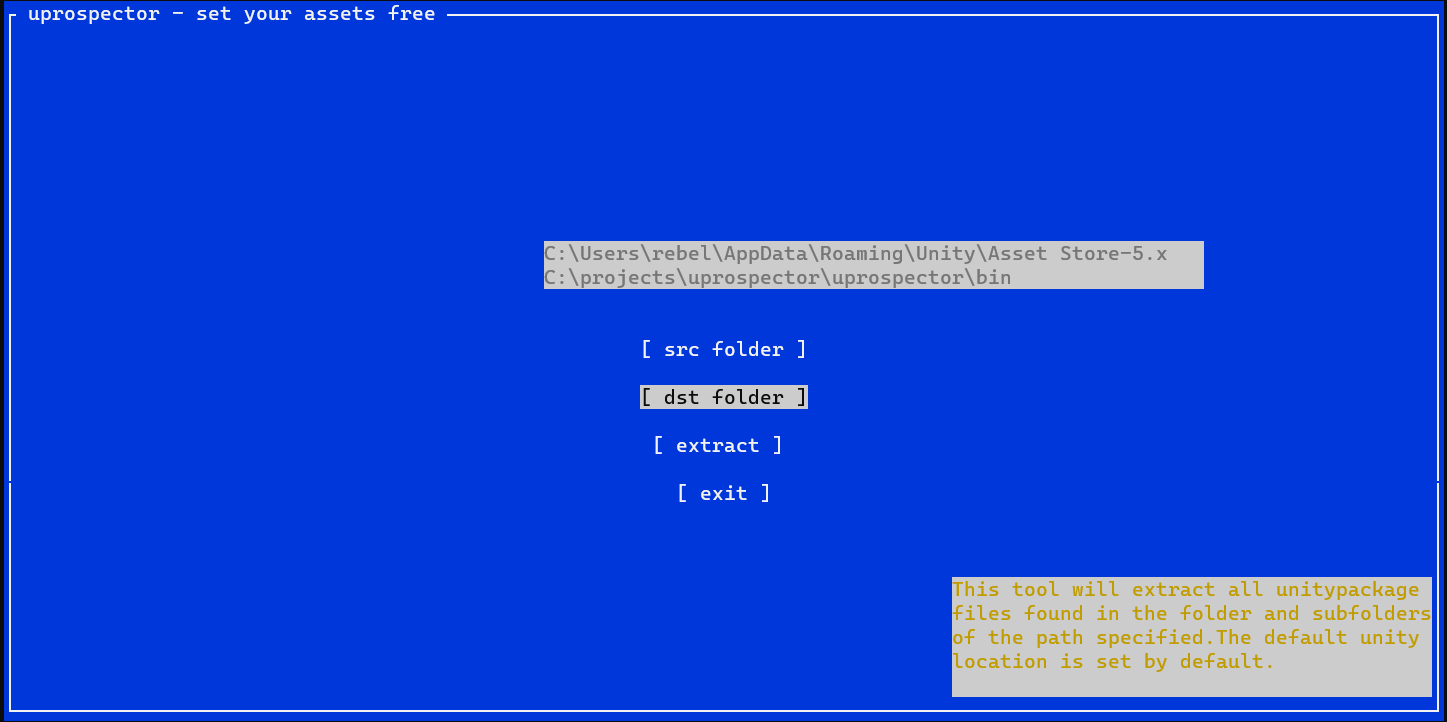
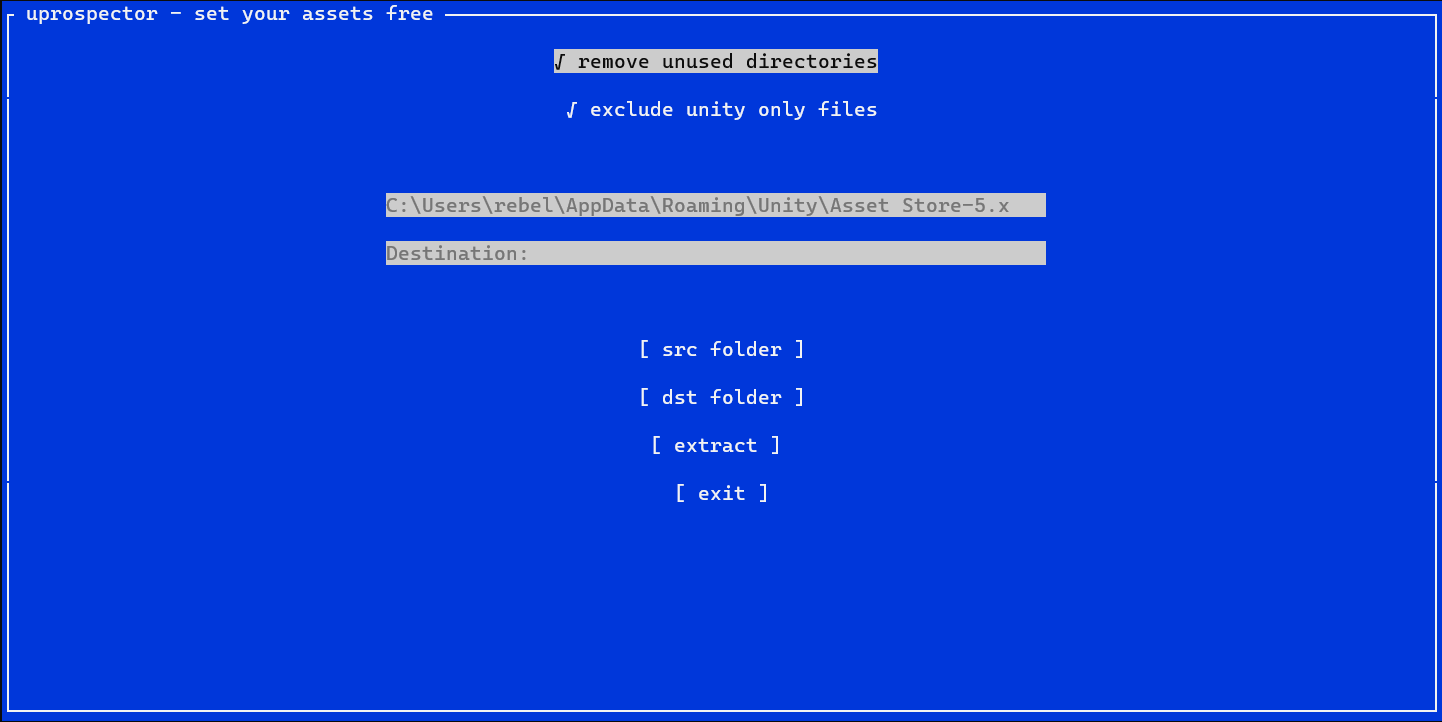
added options to removed unused directories and unity only files

diff --git a/uprospector_window.Designer.cs b/uprospector_window.Designer.cs
@@ -17,6 +17,10 @@ namespace uprospector {
         
         private Terminal.Gui.ColorScheme tgDefault;
         
+        private Terminal.Gui.CheckBox remove_unused_directories;
+        
+        private Terminal.Gui.CheckBox exclude_unity_only;
+        
         private Terminal.Gui.TextField source_path;
         
         private Terminal.Gui.TextField destination_path;
@@ -31,10 +35,7 @@ namespace uprospector {
         
         private Terminal.Gui.Button exit_btn;
         
-        private Terminal.Gui.TextView instructions_text;
-        
         private void InitializeComponent() {
-            this.instructions_text = new Terminal.Gui.TextView();
             this.exit_btn = new Terminal.Gui.Button();
             this.extract_btn = new Terminal.Gui.Button();
             this.dst_button = new Terminal.Gui.Button();
@@ -42,6 +43,8 @@ namespace uprospector {
             this.progress_bar = new Terminal.Gui.ProgressBar();
             this.destination_path = new Terminal.Gui.TextField();
             this.source_path = new Terminal.Gui.TextField();
+            this.exclude_unity_only = new Terminal.Gui.CheckBox();
+            this.remove_unused_directories = new Terminal.Gui.CheckBox();
             this.tgDefault = new Terminal.Gui.ColorScheme();
             this.tgDefault.Normal = new Terminal.Gui.Attribute(Terminal.Gui.Color.White, Terminal.Gui.Color.Blue);
             this.tgDefault.HotNormal = new Terminal.Gui.Attribute(Terminal.Gui.Color.BrightCyan, Terminal.Gui.Color.Blue);
@@ -61,10 +64,30 @@ namespace uprospector {
             this.Border.DrawMarginFrame = true;
             this.TextAlignment = Terminal.Gui.TextAlignment.Left;
             this.Title = "uprospector - set your assets free";
+            this.remove_unused_directories.Width = 6;
+            this.remove_unused_directories.Height = 1;
+            this.remove_unused_directories.X = Pos.Center();
+            this.remove_unused_directories.Y = 1;
+            this.remove_unused_directories.Visible = true;
+            this.remove_unused_directories.Data = "remove_unused_directories";
+            this.remove_unused_directories.Text = "remove unused directories";
+            this.remove_unused_directories.TextAlignment = Terminal.Gui.TextAlignment.Left;
+            this.remove_unused_directories.Checked = false;
+            this.Add(this.remove_unused_directories);
+            this.exclude_unity_only.Width = 6;
+            this.exclude_unity_only.Height = 1;
+            this.exclude_unity_only.X = Pos.Center();
+            this.exclude_unity_only.Y = Pos.Bottom(remove_unused_directories) + 1;
+            this.exclude_unity_only.Visible = true;
+            this.exclude_unity_only.Data = "exclude_unity_only";
+            this.exclude_unity_only.Text = "exclude unity only files";
+            this.exclude_unity_only.TextAlignment = Terminal.Gui.TextAlignment.Left;
+            this.exclude_unity_only.Checked = false;
+            this.Add(this.exclude_unity_only);
             this.source_path.Width = 55;
             this.source_path.Height = 1;
-            this.source_path.X = 44;
-            this.source_path.Y = 9;
+            this.source_path.X = Pos.Center();
+            this.source_path.Y = Pos.Bottom(exclude_unity_only) + 3;
             this.source_path.Visible = true;
             this.source_path.Secret = false;
             this.source_path.Data = "source_path";
@@ -73,8 +96,8 @@ namespace uprospector {
             this.Add(this.source_path);
             this.destination_path.Width = 55;
             this.destination_path.Height = 1;
-            this.destination_path.X = 44;
-            this.destination_path.Y = 10;
+            this.destination_path.X = Pos.Center();
+            this.destination_path.Y = Pos.Bottom(source_path) + 1;
             this.destination_path.Visible = true;
             this.destination_path.Secret = false;
             this.destination_path.Data = "destination_path";
@@ -135,20 +158,6 @@ namespace uprospector {
             this.exit_btn.TextAlignment = Terminal.Gui.TextAlignment.Centered;
             this.exit_btn.IsDefault = false;
             this.Add(this.exit_btn);
-            this.instructions_text.Width = 40;
-            this.instructions_text.Height = 5;
-            this.instructions_text.X = 78;
-            this.instructions_text.Y = 23;
-            this.instructions_text.Visible = true;
-            this.instructions_text.ColorScheme = this.tgDefault;
-            this.instructions_text.AllowsTab = true;
-            this.instructions_text.AllowsReturn = true;
-            this.instructions_text.WordWrap = false;
-            this.instructions_text.Data = "instructions_text";
-            this.instructions_text.Text = "This tool will extract all unitypackage\r\nfiles found in the folder and subfolders" +
-                "\r\nof the path specified.The default unity\r\nlocation is set by default.";
-            this.instructions_text.TextAlignment = Terminal.Gui.TextAlignment.Left;
-            this.Add(this.instructions_text);
         }
     }
 }

diff --git a/unitypackagetools.cs b/unitypackagetools.cs
@@ -4,11 +4,29 @@ using System.Text;
 
 namespace uprospector
 {
-    public class unity_package_tools
+    public static class unity_package_tools
     {
+        public static bool exclude_unity_files = false;
+        public static bool remove_unused_directories = false;
+        public static event Action<string>? package_extracted = null;
+        public static event Action<int>? extraction_complete = null;
+
         private static readonly object @lock = new object();
         private static readonly string log_file_path = "uprospector.log";
-
+        private static readonly List<string> excluded_extensions = new List<string>()
+        {
+            ".unity", ".anim", ".controller", ".prefab", ".asset", ".mat"
+        };
+        
+        static bool is_excluded(string file_path)
+        {
+            if(!exclude_unity_files)
+                return false;
+            
+            var extension = Path.GetExtension(file_path);
+            return excluded_extensions.Contains(extension);
+        }
+        
         public static void log_message(string message)
         {
             lock (@lock)
@@ -62,7 +80,7 @@ namespace uprospector
             stream.Close();
         }
         
-        private static string extract_file(string output_directory, string folder)
+        private static void extract_file(string output_directory, string folder)
         {
             byte[]? file_data = null;
             string file_path = "";
@@ -92,6 +110,11 @@ namespace uprospector
                 log_message($"File path missing in {folder}");
             }
 
+            if (is_excluded(file_path))
+            {
+                return;
+            }
+            
             file_path = Path.Combine(output_directory, file_path);
             
             var asset_folder = Path.GetDirectoryName(file_path);
@@ -137,13 +160,8 @@ namespace uprospector
                     }
                 }
             }
-            
-            return file_path;
         }
 
-        public static event Action<string>? package_extracted = null;
-        public static event Action<int>? extraction_complete = null;
-        
         public static async Task extract_all_packages(string src, string dst)
         {
             var response = await extract_packages(src, dst);
@@ -153,7 +171,7 @@ namespace uprospector
         private static async Task<int> extract_packages(string src, string dst)
         {
             int total_packages = 0;
-            dst = Path.Combine(dst, "extract_packages");
+            dst = Path.Combine(dst, "extracted_packages");
             try
             {
                 var file_ops = new ParallelOptions { MaxDegreeOfParallelism = 16 };
@@ -189,7 +207,18 @@ namespace uprospector
                                     log_message($"Error extracting package {package_name}");
                                 }
                                 
-                                Directory.Delete(package_dir_temp, true);
+                                try
+                                {
+                                    Directory.Delete(package_dir_temp, true);
+
+                                    if (remove_unused_directories)
+                                    {
+                                        directory_cleaner.remove_unused(package_dir);
+                                    }
+                                }catch(Exception e)
+                                {
+                                    log_message($"Error removing unused directories: {e.Message}");
+                                }
                                 
                                 lock (@lock)
                                 {

diff --git a/directory_cleaner.cs b/directory_cleaner.cs
@@ -1,0 +1,52 @@
+namespace uprospector
+{
+    public class directory_cleaner
+    {
+        //given: packagename/assets/assets/textures/texture.png
+        //result: packagename/textures/texture.png
+        public static void remove_unused(string root_path)
+        {
+            foreach (var directory in Directory.GetDirectories(root_path))
+            {
+                remove_unused(directory); // Recursively process subdirectories
+
+                // If the directory contains only other directories (and no files), move them up
+                if (Directory.GetFiles(directory).Length == 0 && Directory.GetDirectories(directory).Length > 0)
+                {
+                    try
+                    {
+                        move_sub_up_one(directory);
+
+                        // Delete the now-empty directory
+                        Directory.Delete(directory);
+                    }
+                    catch (Exception e)
+                    {
+                        unity_package_tools.log_message($"Error removing unused directory: {e.Message}");
+                    }
+                }
+            }
+        }
+        private static void move_sub_up_one(string directory)
+        {
+            var parent_directory = Directory.GetParent(directory)?.FullName;
+
+            if (parent_directory == null)
+            {
+                return;
+            }
+
+            foreach (var sub_dir in Directory.GetDirectories(directory))
+            {
+                var dest_dir = Path.Combine(parent_directory, new DirectoryInfo(sub_dir).Name);
+
+                while (Directory.Exists(dest_dir))
+                {
+                    dest_dir = Path.Combine(parent_directory, $"{new DirectoryInfo(sub_dir).Name}_{DateTime.Now.Ticks}");
+                }
+                
+                Directory.Move(sub_dir, dest_dir);
+            }
+        }
+    }
+}

diff --git a/uprospector_window.cs b/uprospector_window.cs
@@ -20,16 +20,25 @@ namespace uprospector
         {
             InitializeComponent();
 
-            instructions_text.ReadOnly = true;
-            instructions_text.CanFocus = false;
             progress_bar.CanFocus = false;
             progress_bar.Visible = false;
             destination_path.CanFocus = false;
             source_path.CanFocus = false;
             source_path.ReadOnly = true;
             destination_path.ReadOnly = true;
-            instructions_text.ReadOnly = true;
 
+            remove_unused_directories.Checked = unity_package_tools.remove_unused_directories;
+            remove_unused_directories.Toggled += (args) =>
+            {
+                unity_package_tools.remove_unused_directories = remove_unused_directories.Checked;
+            };
+            
+            exclude_unity_only.Checked = unity_package_tools.exclude_unity_files;
+            exclude_unity_only.Toggled += (args) =>
+            {
+                unity_package_tools.exclude_unity_files = exclude_unity_only.Checked;
+            };
+            
             string appDataPath = Environment.GetFolderPath(Environment.SpecialFolder.ApplicationData);
 
             // Construct the full path to the Unity Asset Store folder

diff --git a/uprospector.cs b/uprospector.cs
@@ -8,6 +8,8 @@ static class uprospector_main
 {
     static void Main()
     {
+        unity_package_tools.exclude_unity_files = true;
+        unity_package_tools.remove_unused_directories = true;
         unity_package_tools.log_message($"uprospector started {DateTime.Now}");
         
         Application.Init();
